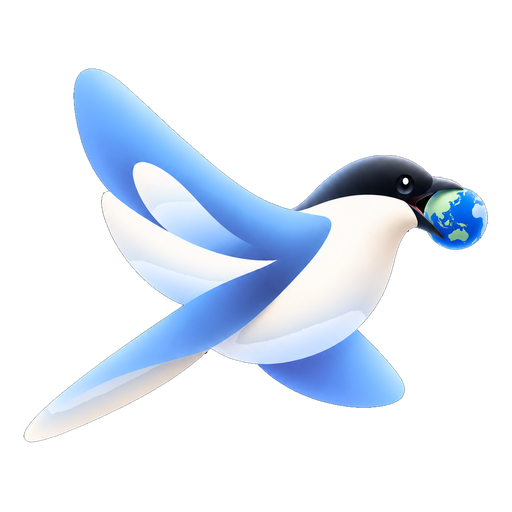
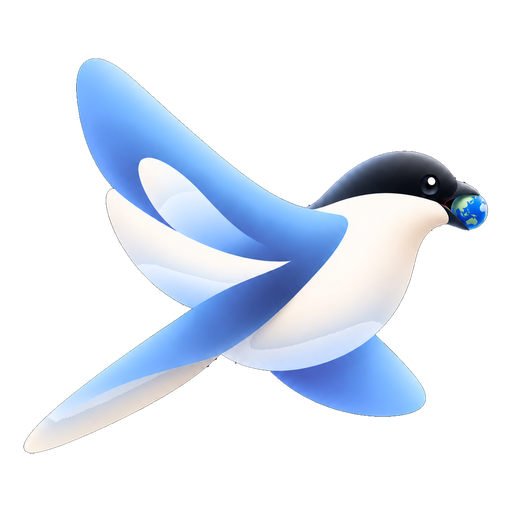
로고를 새 물까치 그림으로 교체
보내 주신 그림으로 갈아 끼웠다. 손질은 앞과 같다 — 날개 파랑은 채도를
0.62배로 낮추되 부리에 문 지구본은 빼고 보정하고(초록 픽셀이 모인 자리로
지구본을 찾아 둘레를 제외한다), 검은 바탕은 테두리에서 물을 채워 걷어낸다.

이번 그림은 지구본이 작아 반지름이 48px로 잡혔다(앞 그림은 84px). 제외
범위를 반지름의 1.6배로 잡아 작은 지구본도 온전히 비켜 가게 했다.

밝은 화면·어두운 화면과 파비콘 크기(32px)에서 모두 확인했다.
512·192·64 세 크기 갱신. 빌드 스탬프 20260903u.

Claude-Session: https://claude.ai/code/session_0111yRyXzGisqdrG9SKT91iY

diff --git a/index.html b/index.html
@@ -13,10 +13,10 @@
 <link rel="stylesheet" crossorigin href="https://cdn.jsdelivr.net/gh/orioncactus/pretendard@v1.3.9/dist/web/static/pretendard.min.css">
 <link href="https://fonts.googleapis.com/css2?family=Space+Grotesk:wght@400;500;600;700&display=swap" rel="stylesheet">
 </noscript>
-<link rel="icon" href="img/magpie-64.png?v=20260903t">
-<link rel="apple-touch-icon" href="img/magpie-192.png?v=20260903t">
+<link rel="icon" href="img/magpie-64.png?v=20260903u">
+<link rel="apple-touch-icon" href="img/magpie-192.png?v=20260903u">
 <script>(function(){try{var m=localStorage.getItem('seji_theme')||(matchMedia('(prefers-color-scheme: light)').matches?'light':'dark');document.documentElement.dataset.theme=m;}catch(e){}})();</script>
-<link rel="stylesheet" href="css/main.css?v=20260903t">
+<link rel="stylesheet" href="css/main.css?v=20260903u">
 </head>
 <body>
 <button id="theme-toggle" type="button" title="화면 밝기 전환" onclick="toggleTheme()"></button>
@@ -28,7 +28,7 @@
       <path d="M-10 150 C 90 150 130 40 260 40 C 390 40 430 150 530 150"/>
     </svg>
     <div class="g3-lockup" aria-label="Geogl3">
-      <img class="g3-bird" src="img/magpie-512.png?v=20260903t" alt="" width="512" height="512" decoding="async"/>
+      <img class="g3-bird" src="img/magpie-512.png?v=20260903u" alt="" width="512" height="512" decoding="async"/>
       <div class="g3-logo">Geogl3</div>
     </div>
     <p class="ld-tag">See the world from above</p>
@@ -4944,25 +4944,25 @@
     <button class="reb secondary" onclick="runPendingReset();document.getElementById('rbq-end').classList.remove('on')">다시 시작</button>
   </div>
 </div>
-<script src="js/data.js?v=20260903t"></script>
-<script src="js/rivers-data.js?v=20260903t"></script>
-<script src="js/climate-data.js?v=20260903t"></script>
-<script src="js/religion-pop-data.js?v=20260903t"></script>
-<script src="js/climate-map-data.js?v=20260903t"></script>
-<script src="js/app.js?v=20260903t"></script>
-<script src="js/climate.js?v=20260903t"></script>
-<script src="js/dict-data.js?v=20260903t"></script>
-<script src="js/flag-colors-data.js?v=20260903t"></script>
-<script src="js/flag-bg-data.js?v=20260903t"></script>
-<script src="js/dict.js?v=20260903t"></script>
-<script src="js/suteuk-data.js?v=20260903t"></script>
-<script src="js/suteuk.js?v=20260903t"></script>
-<script src="js/stat-data.js?v=20260903t"></script>
-<script src="js/stat.js?v=20260903t"></script>
+<script src="js/data.js?v=20260903u"></script>
+<script src="js/rivers-data.js?v=20260903u"></script>
+<script src="js/climate-data.js?v=20260903u"></script>
+<script src="js/religion-pop-data.js?v=20260903u"></script>
+<script src="js/climate-map-data.js?v=20260903u"></script>
+<script src="js/app.js?v=20260903u"></script>
+<script src="js/climate.js?v=20260903u"></script>
+<script src="js/dict-data.js?v=20260903u"></script>
+<script src="js/flag-colors-data.js?v=20260903u"></script>
+<script src="js/flag-bg-data.js?v=20260903u"></script>
+<script src="js/dict.js?v=20260903u"></script>
+<script src="js/suteuk-data.js?v=20260903u"></script>
+<script src="js/suteuk.js?v=20260903u"></script>
+<script src="js/stat-data.js?v=20260903u"></script>
+<script src="js/stat.js?v=20260903u"></script>
 <!-- ════════════════════════════════════════════════════════════
      계정 · 소셜로그인 · 랭킹 (Supabase) — 빌드/명령어 불필요, 이 파일만으로 동작
      ▼▼▼ 여기 두 줄만 본인 Supabase 값으로 바꾸면 끝 ▼▼▼ -->
-<script type="module" src="js/account.js?v=20260903t"></script>
+<script type="module" src="js/account.js?v=20260903u"></script>
 
 </body>
 </html>
